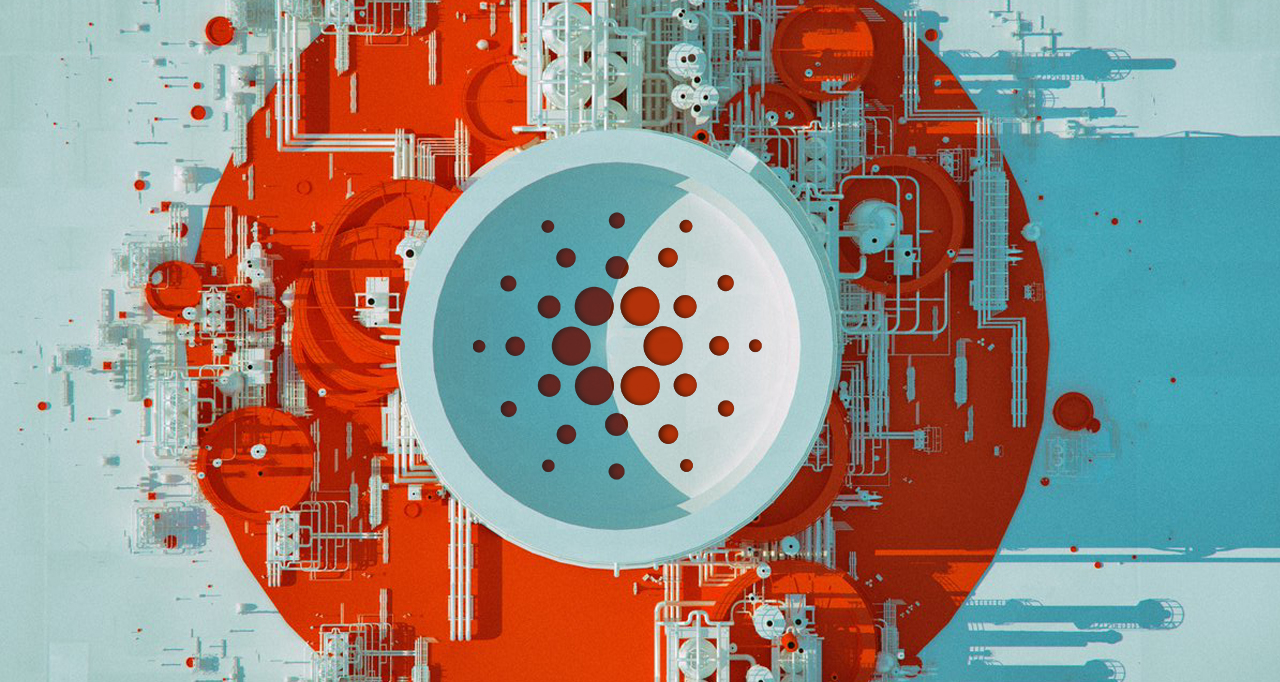
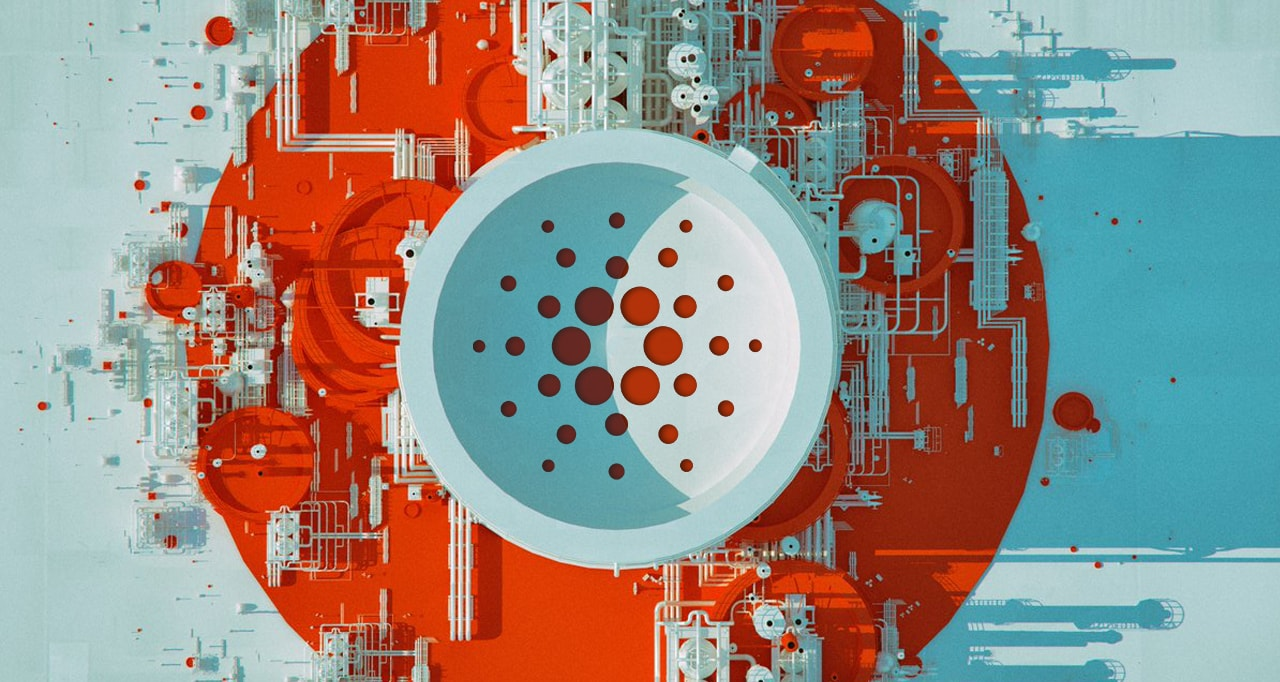
optimized images

diff --git a/_posts/201712/2017-12-10-ataque-51-porciento.md b/_posts/201712/2017-12-10-ataque-51-porciento.md
@@ -36,7 +36,7 @@ Es por ello que en aquellas ocasiones donde ciertos pools de mineros (un pool de
 {% include image_caption.html imageurl="/images/posts/201712/pools.png" title="Pools" caption="Porcentajes de poder computacional de la red repartida entre pools de mineros" %}
 
 
-**La concepción general del ataque de 51 por ciento ahora mismo es que aunque resultaría técnicamente posible, no es algo que a priori nos debería preocupar demasiado a día de hoy.**
+**La concepción general del ataque de 51 por ciento ahora mismo es que aunque resultaría técnicamente posible, no es algo que a priori nos debería preocupar demasiado.**
 
 Ahora como ejercicio de lo explicado anteriormente, vamos a imaginar un escenario ficticio:
 Imaginemos que se produce una guerra nuclear, y un grupo de supervivientes decide refugiarse en un búnker convenientemente acondicionado para sobrevivir los próximos 20 años hasta que la radicación nuclear desaparezca. Los ocupantes deciden usar Bitcoin como método de pago entre ellos, y así lo hacen durante 20 años, los mineros consiguen sus recompensas por procesar las transacciones del resto de los usuarios que usan Bitcoins sin problemas.
